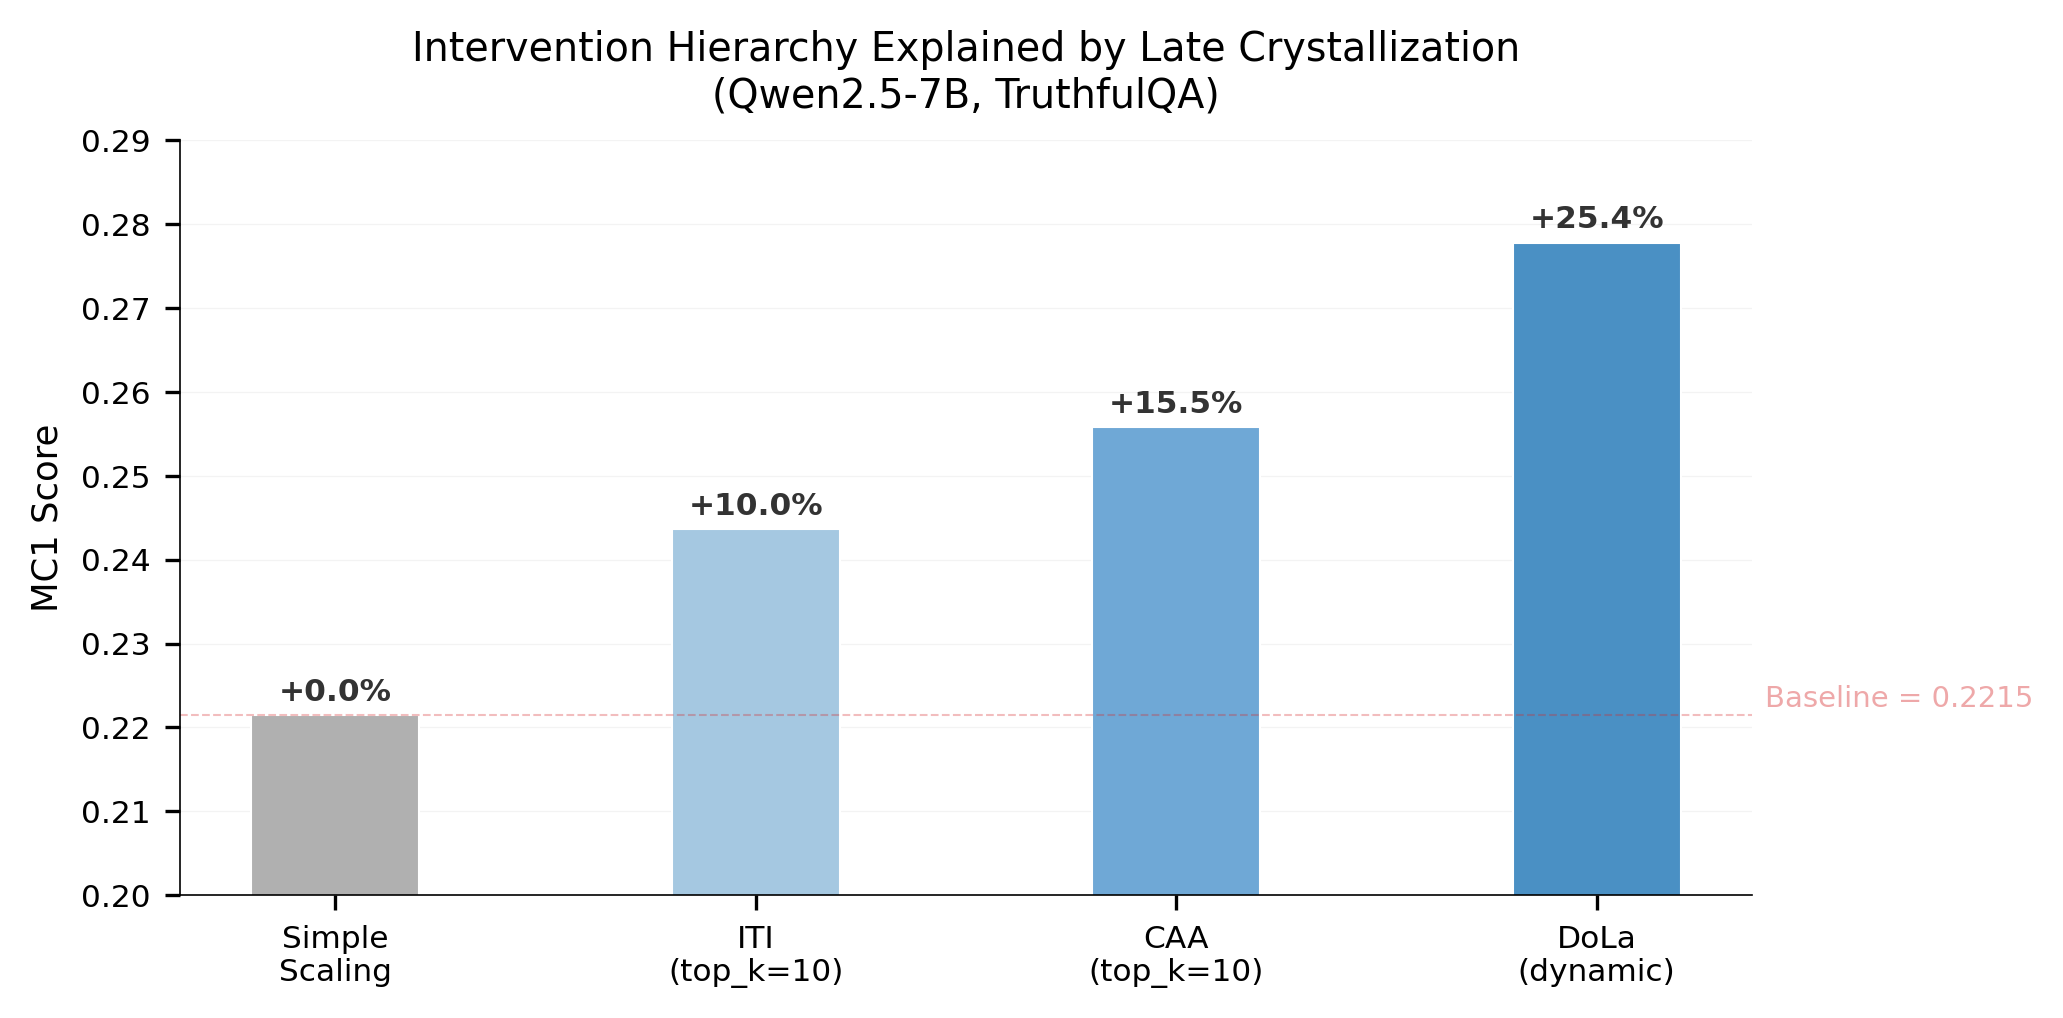
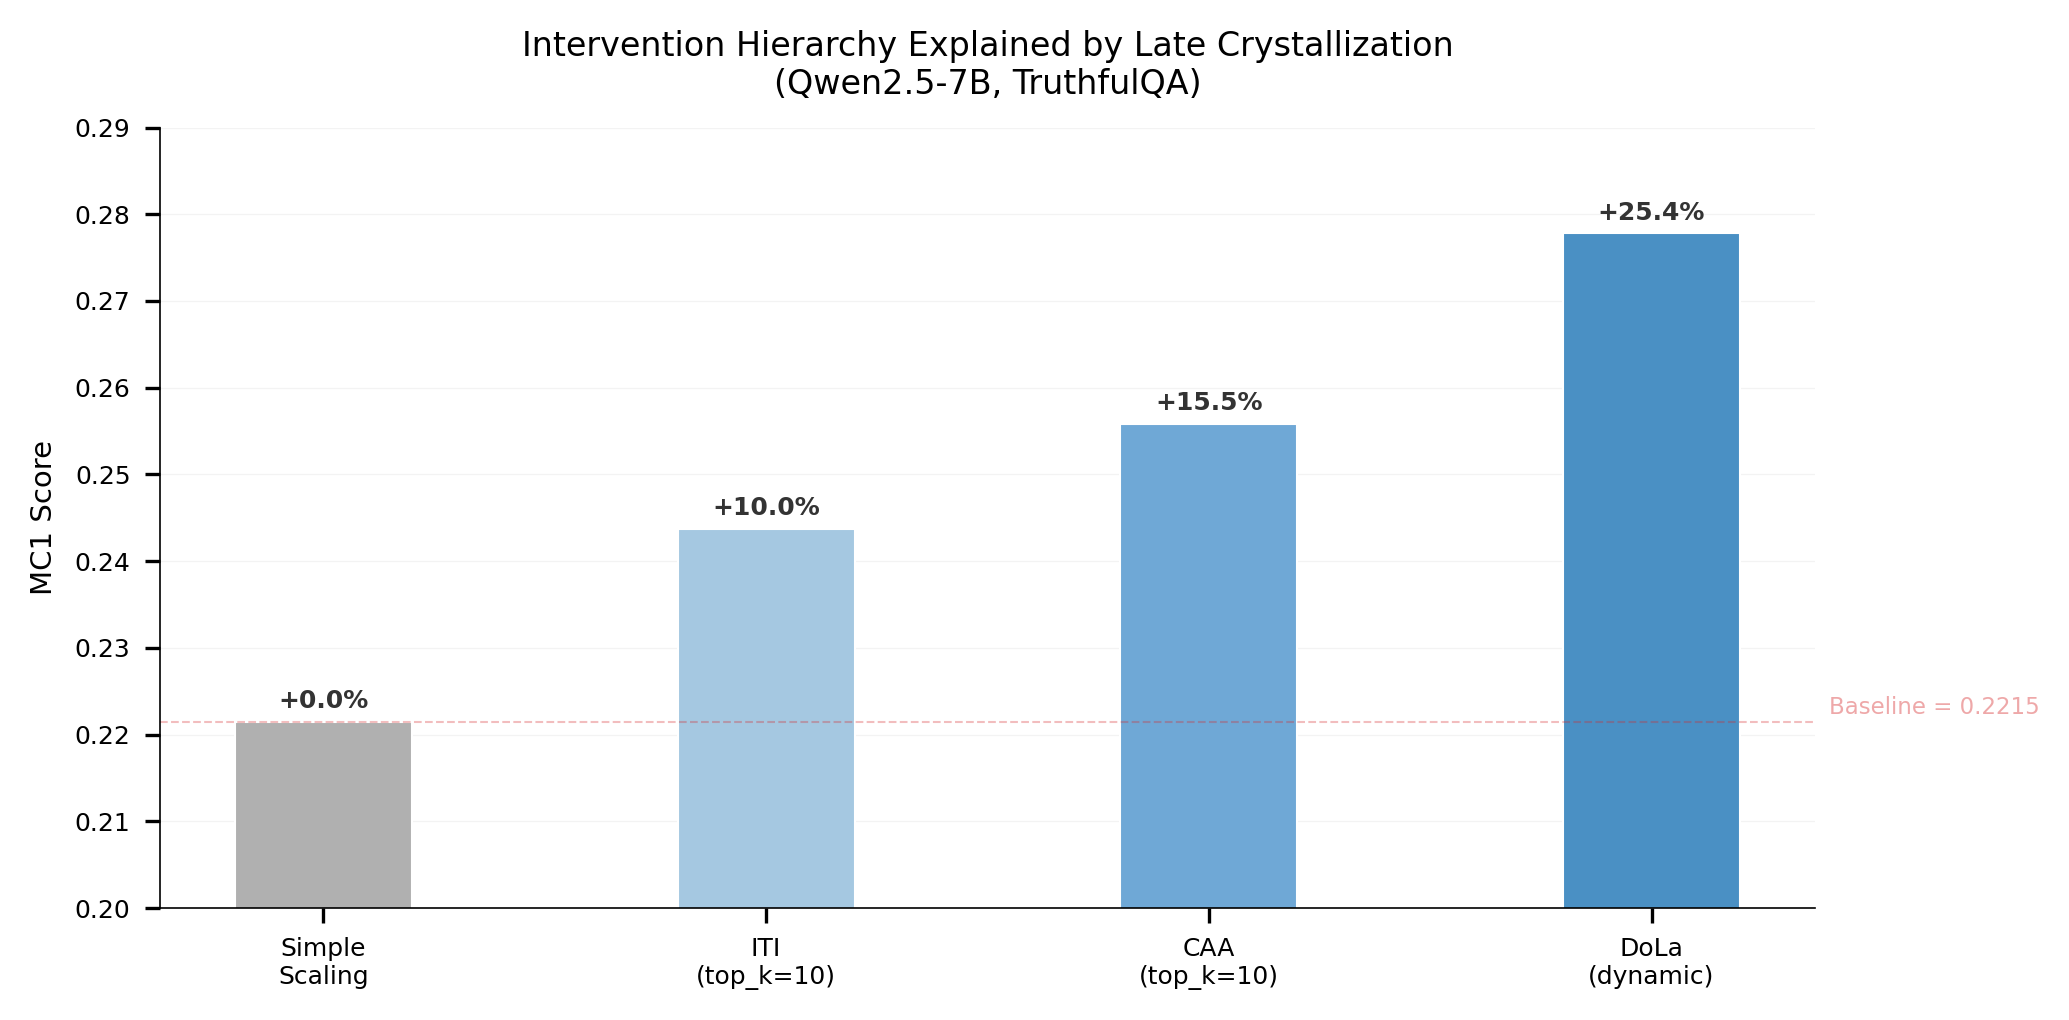
fix: shrink fig6 font sizes

diff --git a/content/posts/late-crystallization/fix_fig4.py b/content/posts/late-crystallization/fix_fig4.py
@@ -27,22 +27,22 @@ def main():
                   edgecolor="white", linewidth=0.5)
 
     ax.axhline(y=baseline, color=RED, linewidth=0.5, linestyle="--", alpha=0.3)
-    ax.text(3.4, baseline + 0.0003, f"Baseline = {baseline}", fontsize=7,
+    ax.text(3.4, baseline + 0.0003, f"Baseline = {baseline}", fontsize=5.5,
             color=RED, alpha=0.4, va="bottom")
 
     for bar, d in zip(bars, deltas):
         ax.text(bar.get_x() + bar.get_width() / 2, bar.get_height() + 0.001,
-                d, ha="center", va="bottom", fontsize=7.5, fontweight="bold",
+                d, ha="center", va="bottom", fontsize=6, fontweight="bold",
                 color="#333333")
 
     ax.set_xticks(range(4))
-    ax.set_xticklabels(methods, fontsize=8)
-    ax.set_ylabel("MC1 Score", fontsize=8.5)
+    ax.set_xticklabels(methods, fontsize=6.5)
+    ax.set_ylabel("MC1 Score", fontsize=7)
     ax.set_title("Intervention Hierarchy Explained by Late Crystallization\n"
                  "(Qwen2.5-7B, TruthfulQA)",
-                 fontsize=9.5, pad=8)
+                 fontsize=8, pad=8)
     ax.set_ylim(0.20, 0.29)
-    ax.tick_params(axis="both", labelsize=7.5)
+    ax.tick_params(axis="both", labelsize=6)
     ax.spines["right"].set_visible(False)
     ax.spines["top"].set_visible(False)
     ax.spines["left"].set_linewidth(0.4)